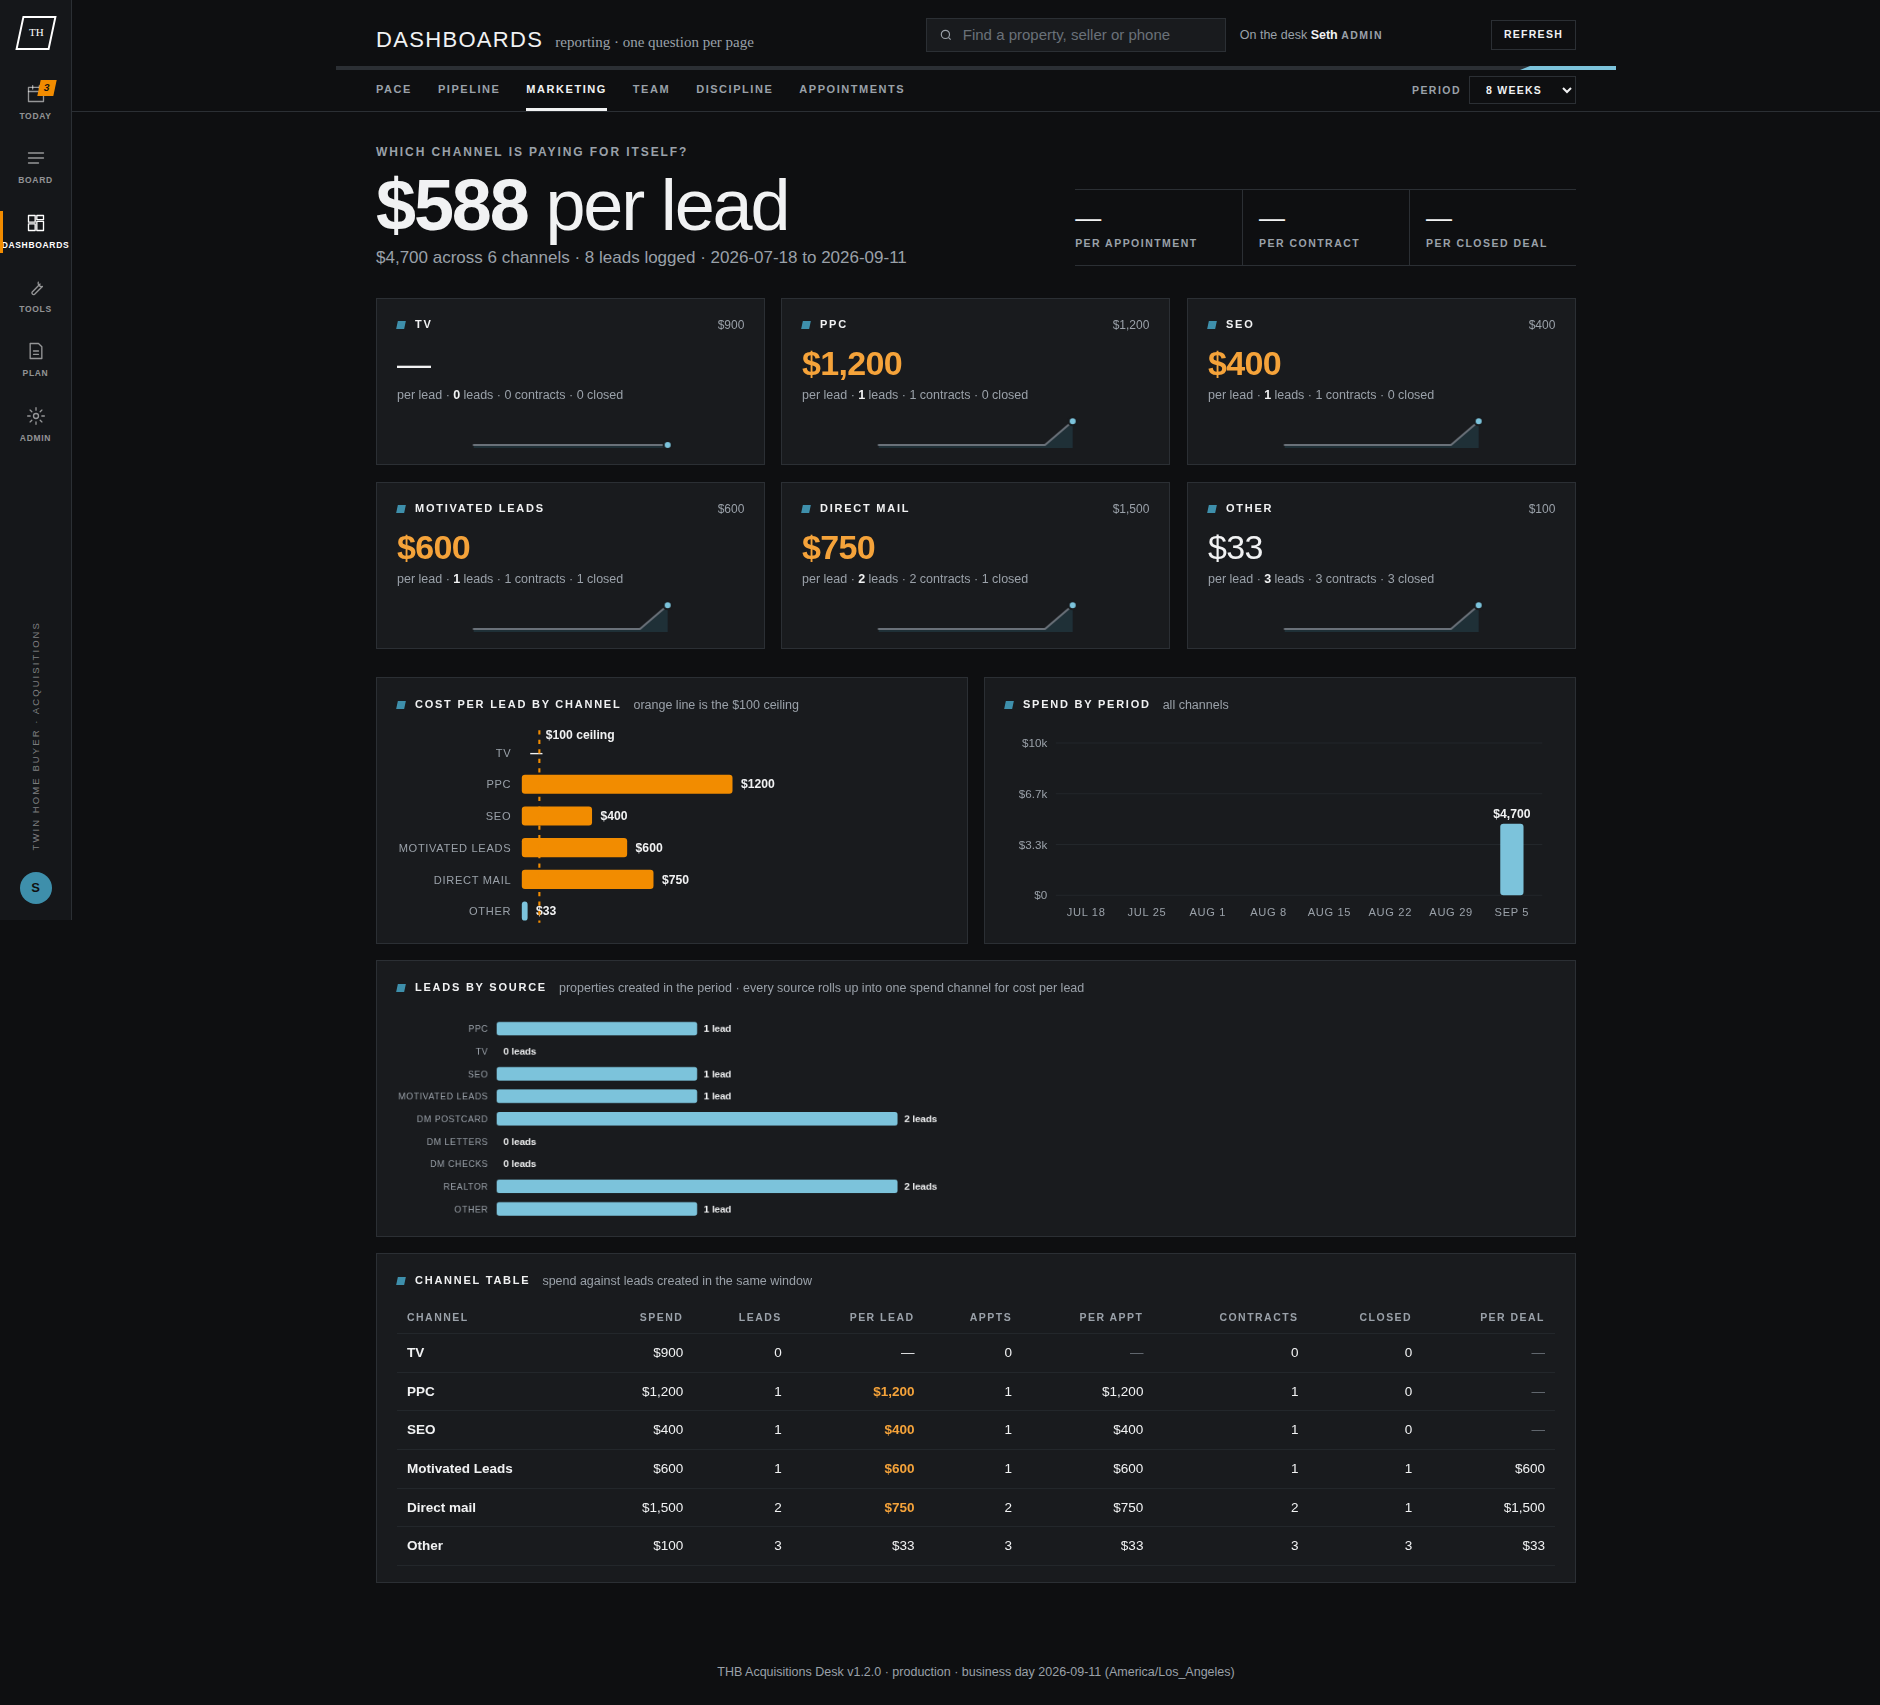
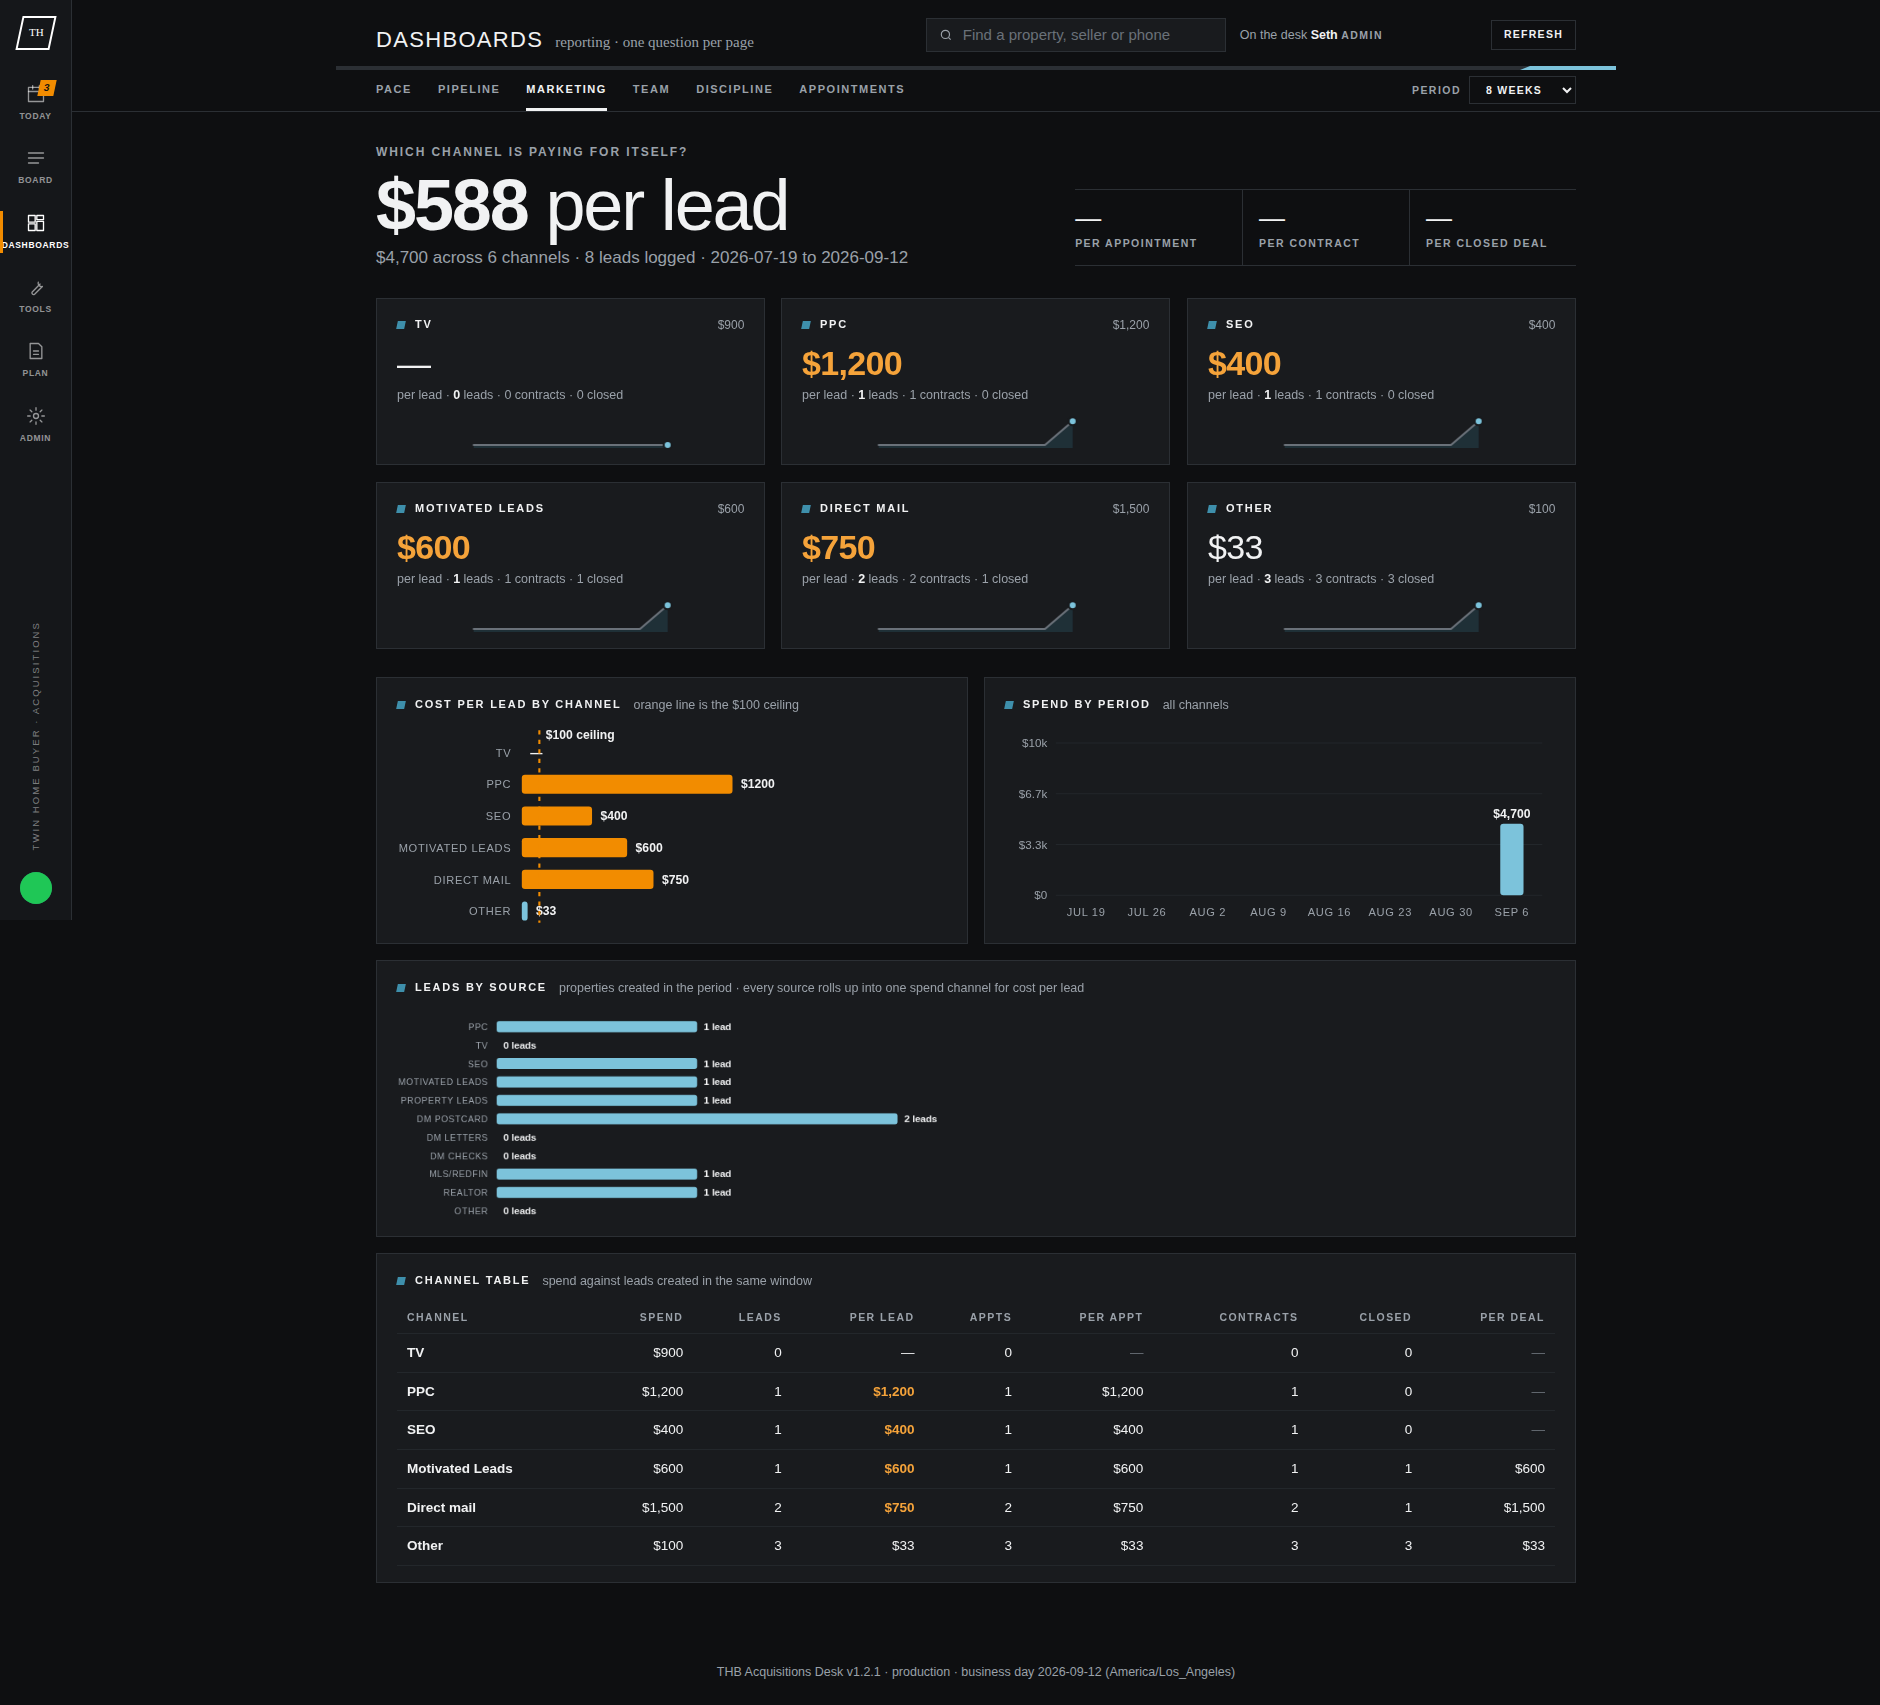
v1.2.1: Property Leads and MLS/Redfin as their own sources; purchase price on every property
Property Leads and MLS/Redfin were folded into Other and Realtor; they are
now separate sources, both billing to the Other spend channel. Agent-tagged
MLS Lead still reads as Realtor.

Purchase price sits under Underwriting next to the offer and replaces offer
room on Closed rows: what we actually pay, not what we offered.

Claude-Session: https://claude.ai/code/session_01PD4vD51siFq5jYyNjR6B3w

diff --git a/apps/acquisitions-desk/src/Scripts.html b/apps/acquisitions-desk/src/Scripts.html
@@ -147,7 +147,7 @@
     if(l.due_state==='DUE_TODAY')return {t:'Due today',s:esc(l.status_label)+(l.next_action?' · '+esc(l.next_action):''),a:false};
     return {t:esc(l.status_label),s:(l.next_action?esc(l.next_action):'')+(l.due_date?' · due '+esc(l.due_date):l.due_state==='NO_DUE_DATE'?' · no due date':''),a:false}}
   function daysBetween(a,b){return Math.round((new Date(b+'T12:00:00Z')-new Date(a+'T12:00:00Z'))/86400000)}
-  function leadRow(l){var st=stateOf(l);var room=(l.status==='CLOSED'&&l.disposition)?'<div class="state">'+esc(l.disposition)+'<small>'+esc(l.exit_strategy||'disposition')+'</small></div>':l.offer_room!=null?'<div class="state'+(l.offer_room<0?' alert':'')+'">'+(l.offer_room<0?'−':'')+money(Math.abs(l.offer_room))+'<small>offer room</small></div>':l.mao!=null?'<div class="state">'+money(l.mao)+'<small>max offer</small></div>':'<div class="state"><span class="muted">—</span><small>no ARV yet</small></div>';
+  function leadRow(l){var st=stateOf(l);var room=(l.status==='CLOSED'&&(l.disposition||l.purchase_price!==''&&l.purchase_price!=null))?'<div class="state">'+(l.purchase_price!==''&&l.purchase_price!=null?money(l.purchase_price):esc(l.disposition||'—'))+'<small>'+esc(l.disposition&&l.purchase_price!==''&&l.purchase_price!=null?l.disposition:l.exit_strategy||'disposition')+'</small></div>':l.offer_room!=null?'<div class="state'+(l.offer_room<0?' alert':'')+'">'+(l.offer_room<0?'−':'')+money(Math.abs(l.offer_room))+'<small>offer room</small></div>':l.mao!=null?'<div class="state">'+money(l.mao)+'<small>max offer</small></div>':'<div class="state"><span class="muted">—</span><small>no ARV yet</small></div>';
     return '<div class="row two clickable lead" id="lead-'+esc(l.lead_id)+'" data-id="'+esc(l.lead_id)+'" data-v="'+l.version+'" data-open="'+esc(l.lead_id)+'"'+(current&&current.lead_id===l.lead_id?' aria-selected="true"':'')+'><i class="sq'+(st.a?' alert':'')+'"></i><div><div class="t">'+esc(l.address)+'</div><div class="m">'+[esc(l.seller_name),esc(l.phone),esc(l.source),l.exit_strategy?'exit: '+esc(l.exit_strategy):'',esc(l.equity_note),esc(l.assigned_name||'unassigned')].filter(Boolean).join(' · ')+(l.contact_attempts?' · '+l.contact_attempts+' attempts':'')+'</div></div><div class="state'+(st.a?' alert':'')+'">'+st.t+'<small>'+st.s+'</small></div>'+room+'</div>'}
   $('leadList').addEventListener('click',function(e){var r=e.target.closest('[data-open]');if(r)openLead(r.dataset.open)});
 
@@ -176,7 +176,7 @@
       html+='<div class="lbl" style="margin-top:6px">Latest</div>'+thread((l.activity||l.recent_activity||[]).slice(-5),false);
     } else if(dtab==='uw'){
       var pricing=function(){      var pct=S.mao_percentage;html+='<div class="lbl" style="margin-bottom:8px">Proposed offer</div><div class="bigmao"><div><b>'+(l.mao!=null?money(l.mao):'—')+'</b><span>max offer · '+esc(pct)+'% of ARV less repairs</span></div><div><b class="'+(l.offer_room==null?'':l.offer_room>=0?'ok':'alert')+'">'+(l.offer_room!=null?(l.offer_room<0?'−':'')+money(Math.abs(l.offer_room)):'—')+'</b><span>room against the ask</span></div></div>';
-      html+='<div class="spec one"><dl>'+kv('After repair value $','<input type="number" min="0" data-set="arv" value="'+esc(l.arv)+'"'+uw+'>')+kv('Repairs $','<input type="number" min="0" data-set="repairs" value="'+esc(l.repairs)+'"'+uw+'>')+kv('Seller asking $','<input type="number" min="0" data-set="asking_price" value="'+esc(l.asking_price)+'"'+uw+'>')+kv('Our offer $','<input type="number" min="0" data-set="offer" value="'+esc(l.offer)+'"'+uw+'>')+kv('Ask as % of ARV',(n(l.arv)&&n(l.asking_price)?Math.round(n(l.asking_price)/n(l.arv)*100)+'%':'<span class="dim muted">—</span>'))+'</dl></div><p class="small muted" style="margin:0">MAO % is a company setting (Admin → Settings). Enter ARV and repairs to price the property.</p>';
+      html+='<div class="spec one"><dl>'+kv('After repair value $','<input type="number" min="0" data-set="arv" value="'+esc(l.arv)+'"'+uw+'>')+kv('Repairs $','<input type="number" min="0" data-set="repairs" value="'+esc(l.repairs)+'"'+uw+'>')+kv('Seller asking $','<input type="number" min="0" data-set="asking_price" value="'+esc(l.asking_price)+'"'+uw+'>')+kv('Our offer $','<input type="number" min="0" data-set="offer" value="'+esc(l.offer)+'"'+uw+'>')+kv('Purchase price $','<input type="number" min="0" data-set="purchase_price" value="'+esc(l.purchase_price)+'"'+uw+'>')+kv('Ask as % of ARV',(n(l.arv)&&n(l.asking_price)?Math.round(n(l.asking_price)/n(l.arv)*100)+'%':'<span class="dim muted">—</span>'))+'</dl></div><p class="small muted" style="margin:0">MAO % is a company setting (Admin → Settings). Enter ARV and repairs to price the property.</p>';
       };
       var dealGrp=function(){      var srcList=C.lead_sources.map(function(s){return s[0]});if(l.source&&srcList.indexOf(l.source)<0)srcList=[l.source].concat(srcList);
       html+='<div class="lbl" style="margin-top:14px;margin-bottom:8px">Deal</div><div class="spec one"><dl>'+kv('Source','<select data-set="source"'+ro+'>'+opt([''].concat(srcList),l.source)+'</select>')+kv('Exit strategy','<select data-set="exit_strategy"'+ro+'>'+opt([''].concat(C.exit_strategies),l.exit_strategy)+'</select>')+kv('Disposition','<select data-set="disposition"'+ro+'>'+opt([''].concat(C.dispositions),l.disposition)+'</select>')+'</dl></div><p class="small muted" style="margin:0">Exit strategy is the plan for the house. Disposition tracks an acquired property until it is sold or wholesaled; it shows on the Closed tab.</p>';

diff --git a/apps/acquisitions-desk/test/run-backend-tests.js b/apps/acquisitions-desk/test/run-backend-tests.js
@@ -26,12 +26,12 @@ test('setupDatabase creates all 12 sheets with exact headers, seeds settings/use
   assert(ss.getSheets().every(s => s.protections.length === 1), 'every sheet protected');
 });
 test('upgrade: an existing sheet with last release\'s headers gets the new columns appended, rows still read', () => {
-  as(OWNER); const ss = ctx._dbCache.ss; const old = ctx.HEADERS.LEADS.filter(h => h !== 'exit_strategy' && h !== 'disposition');
+  as(OWNER); const ss = ctx._dbCache.ss; const old = ctx.HEADERS.LEADS.filter(h => h !== 'exit_strategy' && h !== 'disposition' && h !== 'purchase_price');
   const first = ctx.ensureSheet_(ss, 'LEADS_V1', old); assert(/created/.test(first.status), 'fixture created: ' + JSON.stringify(first));
   ss.getSheetByName('LEADS_V1').appendRow(old.map(h => h === 'lead_id' ? 'LEAD-X' : h === 'address' ? '1 Old St' : ''));
-  const up = ctx.ensureSheet_(ss, 'LEADS_V1', ctx.HEADERS.LEADS); assert(/added columns: exit_strategy, disposition/.test(up.status), 'columns appended: ' + up.status);
+  const up = ctx.ensureSheet_(ss, 'LEADS_V1', ctx.HEADERS.LEADS); assert(/added columns: exit_strategy, disposition, purchase_price/.test(up.status), 'columns appended: ' + up.status);
   const sh = ss.getSheetByName('LEADS_V1'); const hdr = sh.getRange(1, 1, 1, sh.getLastColumn()).getValues()[0];
-  assert(hdr.indexOf('exit_strategy') === old.length && hdr.indexOf('disposition') === old.length + 1 && hdr.indexOf('address') === 1, 'new columns at the end, old order untouched');
+  assert(hdr.indexOf('exit_strategy') === old.length && hdr.indexOf('disposition') === old.length + 1 && hdr.indexOf('purchase_price') === old.length + 2 && hdr.indexOf('address') === 1, 'new columns at the end, old order untouched');
   assert(sh.getRange(2, 1, 1, 2).getValues()[0][1] === '1 Old St', 'existing row intact');
   const again = ctx.ensureSheet_(ss, 'LEADS_V1', ctx.HEADERS.LEADS); assert(again.status === 'ok', 'idempotent');
 });

diff --git a/apps/acquisitions-desk/DEPLOY.md b/apps/acquisitions-desk/DEPLOY.md
@@ -140,7 +140,7 @@ What changed: **Add leads** has an "Add them as" picker. Leave it on New for fre
 a fake status-change trail. Closed properties get their own **Closed** tab on the board; Archived is now only the
 dead leads. Prices (ARV, repairs, asking, offer) are filled in on each property afterwards.
 
-## Updating to v1.2.0 (sources, exit strategy, disposition, six spend channels)
+## Updating to v1.2.1 (sources, exit strategy, disposition, purchase price, six spend channels)
 
 This release adds columns, so there is one extra step. From `apps/acquisitions-desk`:
 
@@ -151,10 +151,10 @@ npx.cmd @google/clasp@3 push --force
 
 Then in the Apps Script editor pick **`setupDatabase`** in the function dropdown and **Run** it once. It only appends
 the four new columns to the existing sheets (`LEADS`: `exit_strategy`, `disposition`; `DAILY_METRICS`: `seo_spend`,
-`mail_spend`). Nothing is moved, re-seeded or deleted; the log says `added columns: …` for those two tabs and `ok`
-for the rest. Skip this and the desk shows "Sheet LEADS is missing column exit_strategy" until you run it.
+`mail_spend`; `LEADS` also gets `purchase_price`). Nothing is moved, re-seeded or deleted; the log says
+`added columns: …` for those two tabs and `ok` for the rest. Skip this and the desk shows "Sheet LEADS is missing column exit_strategy" until you run it.
 
-Then **Deploy → Manage deployments → pencil → New version `v1.2.0` → Deploy.** Same `/exec` URL.
+Then **Deploy → Manage deployments → pencil → New version `v1.2.1` → Deploy.** Same `/exec` URL.
 
 The push also adds one Google permission (read the Workspace directory) so the desk can show each person's Google
 profile photo in the rail. The first time you run `setupDatabase` after the push, Google asks you to authorize again;
@@ -162,14 +162,17 @@ accept it. People without a profile photo, or accounts outside the Workspace dir
 
 What changed for the team:
 - **Profile photo** from your Google account in the bottom-left of the rail.
-- **Source** is now a fixed list: PPC, TV, SEO, Motivated Leads, DM Postcard, DM Letters, DM Checks, Realtor, Other.
-  REI BlackBook spellings ("PPC LEAD", "TV Commercial", "MLS Lead", "PPL") are recognized on paste and on edit.
+- **Source** is now a fixed list: PPC, TV, SEO, Motivated Leads, Property Leads, DM Postcard, DM Letters, DM Checks,
+  MLS/Redfin, Realtor, Other. REI BlackBook spellings ("PPC LEAD", "TV Commercial", "PPL", "MLS Lead") are recognized
+  on paste and on edit.
 - Each source rolls up into one of six **spend channels** on the day log: TV, PPC, SEO, Motivated Leads, Direct mail
   (postcards + letters + checks), Other. Cost per lead is computed per channel; Dashboards → Marketing also lists
   leads by source.
 - Every property has an **Exit strategy** (Wholesale, Wholetail, Fix & Flip, Wholetail / Flip, Hold) and, once
   acquired, a **Disposition** (Under construction, Listed, Listed - pending, Sold, Wholesaled). Both live in the
   property drawer under Underwriting → Deal. Disposition shows on the Closed tab in place of offer room.
+- **Purchase price** on every property, under Underwriting next to the offer: what we actually pay, as opposed to what
+  we offered. On the Closed tab it replaces offer room on the row.
 
 ## Roles
 
